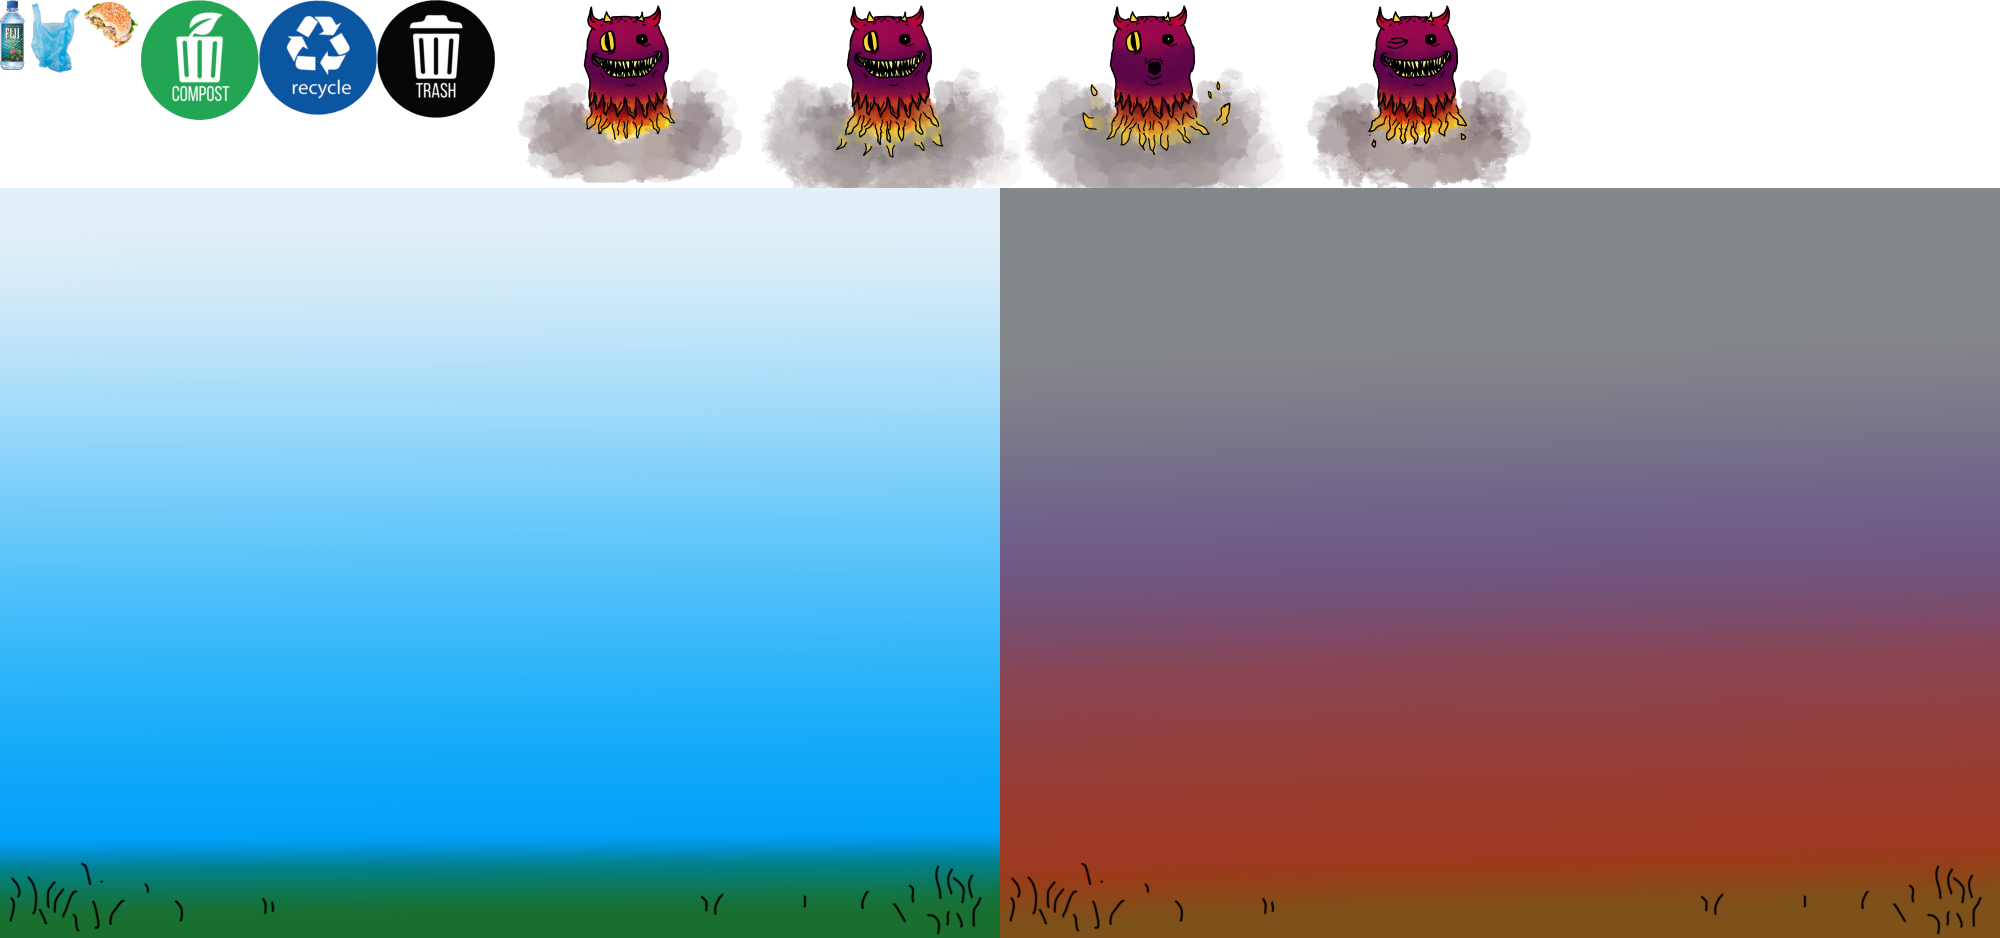
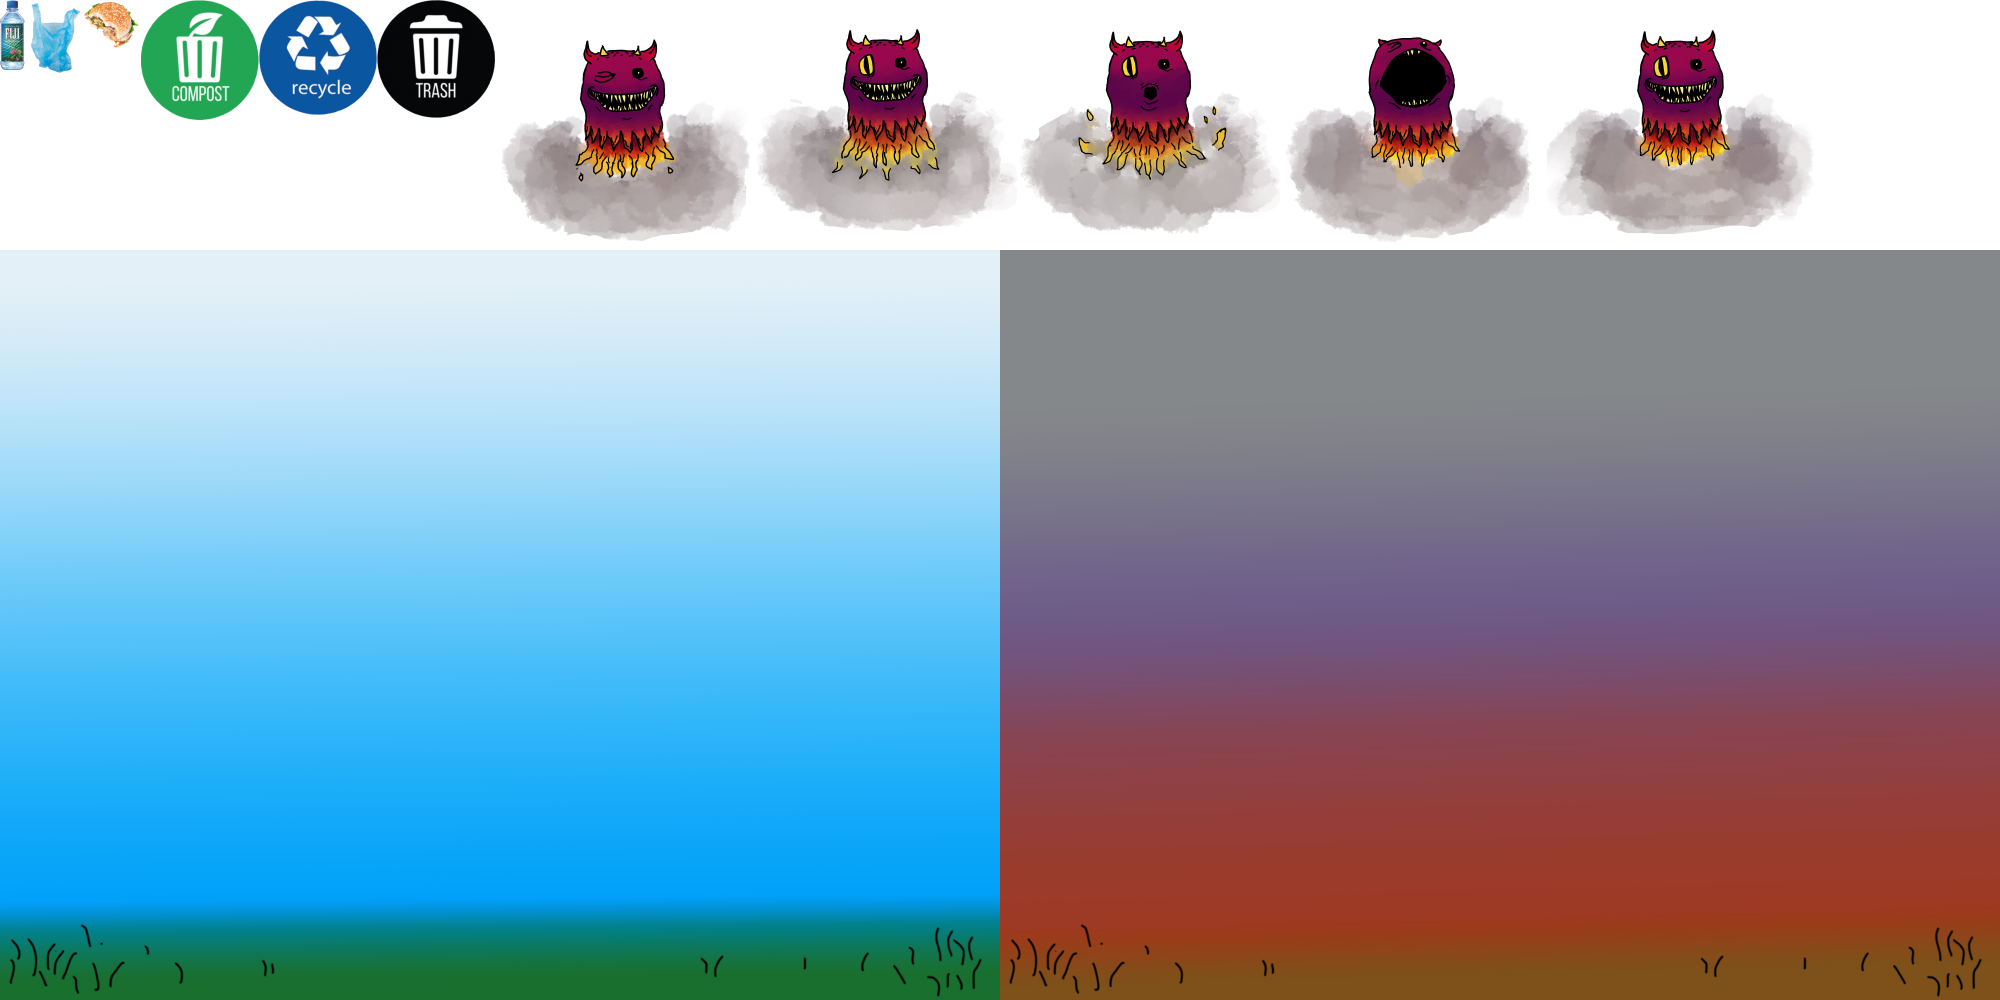
updated texture atlas

diff --git a/react-app/src/components/Monster.js b/react-app/src/components/Monster.js
@@ -8,11 +8,14 @@ function Monster(props) {
   const spriteAtlas = "/images/GameBackGround.json";
   let sheet = loader.resources[spriteAtlas];
   const centerAnchor = new PIXI.Point(0.5, 0.5);
-  const monster = sheet.textures["Monster_01.png"];
+  const monsterFrames =
+    sheet.textures[
+      ("Monster_01.png", "Monster_02.png", "Monster_03.png", "Monster_04.png")
+    ];
 
   return (
     <Sprite
-      texture={monster}
+      texture={monsterFrames}
       anchor={centerAnchor}
       scale={0.4}
       y={500}

diff --git a/README.md b/README.md
@@ -2,7 +2,7 @@
 
 Recycle monster is a game that teaches proper recycling to its users. There are images of recyclables, compost, and garbage passed through the screen and it’s up to the player to sort them in the right bins before the recycle monster can eat it! The player wins if the monster shrinks and goes into hibernation. The player loses if the monster eats enough recyclables to grow into a fiery giant that destroys the earth.
 
-Created with Javascript, NodeJS, Express, PostreSQL, React, and PIXI
+Created with React PIXI Fiber, Express, and NodeJS
 
 ## This project has been deployed using Heroku
 
